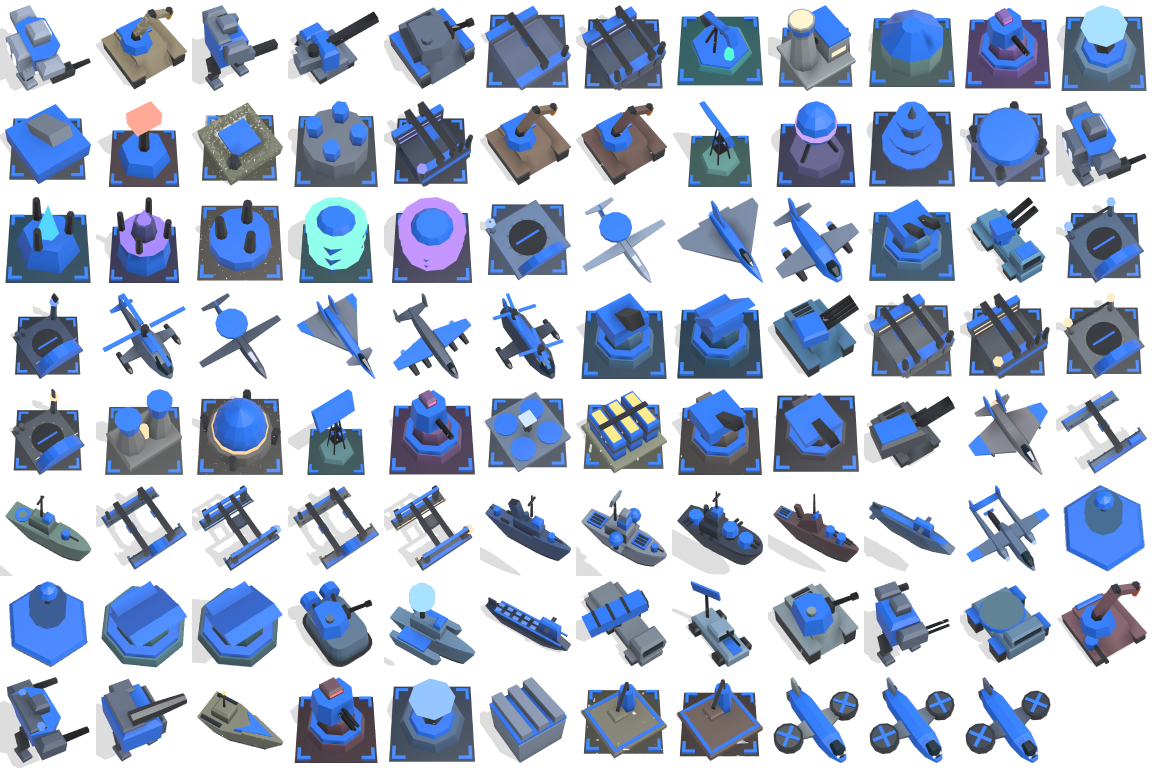
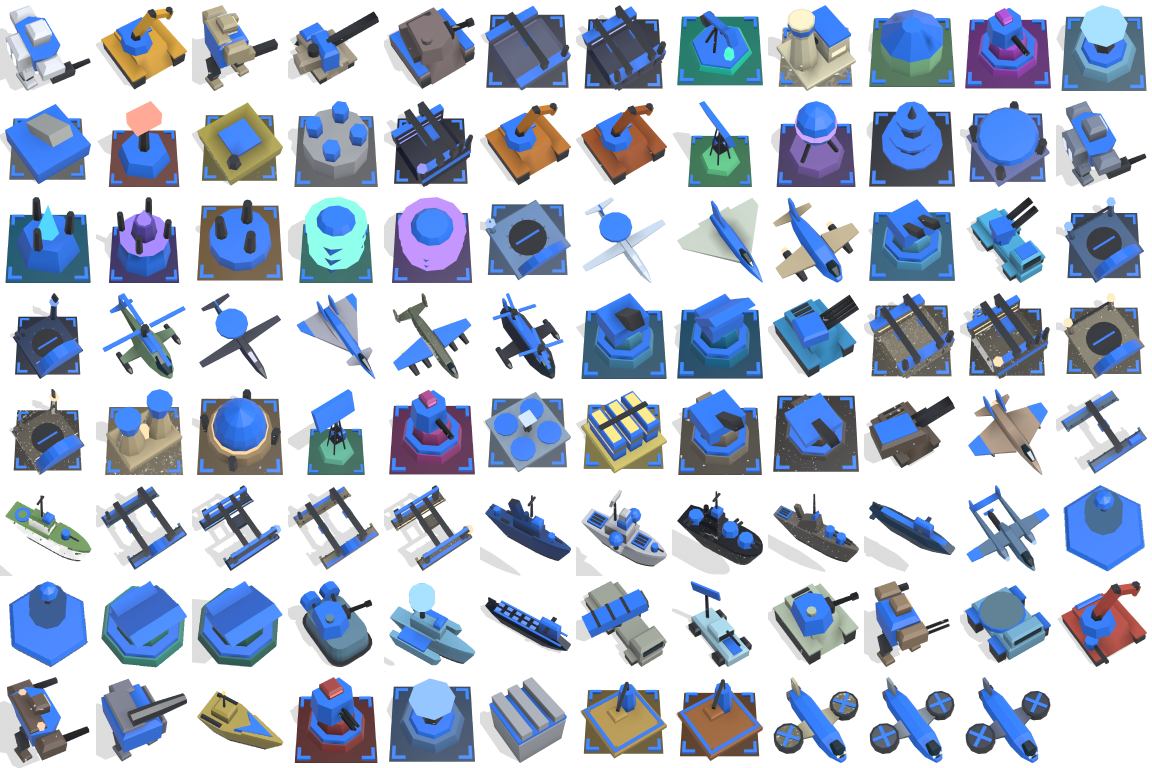
Give unit families their own hull colors, keeping team color on trim
Hulls take most of their family tint and little of the team color, so tanks,
walkers, artillery, aircraft and ships read as different families at a glance.
The team color stays on turrets, panels, and trim. Nine units that had no tint
get earth tones, and the rust-colored artillery and battlecruiser hulls are
sand and stone so Red's trim stands out. Portraits regenerated. The portrait
sheet example takes --team and --out to compare looks without touching assets.

diff --git a/src/render/instances.rs b/src/render/instances.rs
@@ -72,8 +72,8 @@ const APRON_HEIGHT: f32 = 2.4;
 /// Bare armor, before it takes on a little of the team's and the blueprint's color.
 const ARMOR: [f32; 3] = [0.50, 0.52, 0.55];
 /// How much of the blueprint's tint, then the team's color, the armor takes on.
-const ARMOR_TINT: f32 = 0.4;
-const ARMOR_TEAM: f32 = 0.15;
+const ARMOR_TINT: f32 = 0.85;
+const ARMOR_TEAM: f32 = 0.06;
 /// How far glowing parts are lifted towards white.
 const GLOW_WHITEN: f32 = 0.25;
 /// How far a unit must have moved in a tick, in raw squared units, to count as heading somewhere.
@@ -365,13 +365,13 @@ pub fn unit_look(key: &str) -> UnitLook {
         "t3_engineer" => UnitLook { base: Some(Shape::EngineerHull), ..look(Shape::Engineer, Some([0.98, 0.44, 0.10]), 1.0) },
         "land_factory_t3" => look(Shape::FactoryT3, Some([0.10, 0.10, 0.20]), 0.85),
         "t1_engineer" => UnitLook { base: Some(Shape::EngineerHull), ..look(Shape::Engineer, Some([1.00, 0.70, 0.12]), 1.0) },
-        "t1_light_walker" => UnitLook { base: Some(Shape::BotLegs), ..look(Shape::Bot, None, 1.0) },
+        "t1_light_walker" => UnitLook { base: Some(Shape::BotLegs), ..look(Shape::Bot, Some([0.78, 0.70, 0.50]), 1.0) },
         "t1_land_scout" => UnitLook { length: 14.0, ..look(Shape::LandScout, Some([0.75, 0.95, 1.00]), 1.0) },
         "t1_medium_tank" => UnitLook { base: Some(Shape::TankHull), ..look(Shape::Tank, Some([0.80, 0.85, 0.70]), 1.0) },
-        "t2_grenadier_walker" => UnitLook { base: Some(Shape::BotLegs), ..look(Shape::GrenadierWalker, None, 1.0) },
+        "t2_grenadier_walker" => UnitLook { base: Some(Shape::BotLegs), ..look(Shape::GrenadierWalker, Some([0.72, 0.58, 0.40]), 1.0) },
         "t2_mobile_shield" => UnitLook { base: Some(Shape::ShieldCarrier), length: 15.0, ..look(Shape::ShieldEmitter, Some([0.55, 0.85, 1.00]), 1.0) },
         "t2_combat_engineer" => UnitLook { base: Some(Shape::CombatEngineerHull), length: 19.0, ..look(Shape::Engineer, Some([0.95, 0.32, 0.22]), 1.0) },
-        "t3_heavy_walker" => UnitLook { base: Some(Shape::BotLegs), ..look(Shape::HeavyWalker, None, 1.0) },
+        "t3_heavy_walker" => UnitLook { base: Some(Shape::BotLegs), ..look(Shape::HeavyWalker, Some([0.58, 0.46, 0.36]), 1.0) },
         "t3_siege_walker" => UnitLook { base: Some(Shape::BotLegs), ..look(Shape::SiegeWalker, Some([0.70, 0.70, 0.75]), 1.0) },
         "t2_torpedo_boat" => UnitLook { length: 24.0, ..look(Shape::TorpedoBoat, Some([0.90, 0.78, 0.30]), 0.5) },
         "t3_heavy_point_defense" => UnitLook { base: Some(Shape::PointDefenseBase), ..look(Shape::HeavyPointDefense, Some([0.95, 0.35, 0.30]), 1.0) },
@@ -382,8 +382,8 @@ pub fn unit_look(key: &str) -> UnitLook {
         "t2_transport" => look(Shape::Transport, Some([0.70, 0.75, 0.80]), 1.0),
         "t3_heavy_transport" => look(Shape::Transport, Some([0.55, 0.60, 0.75]), 1.0),
         "field_workshop_t3" => look(Shape::FieldWorkshop, Some([0.95, 0.55, 0.20]), 0.95),
-        "t1_light_artillery" => UnitLook { base: Some(Shape::ArtilleryHull), length: 22.0, ..look(Shape::Artillery, None, 1.0) },
-        "t2_heavy_tank" => UnitLook { base: Some(Shape::HeavyTankHull), length: 24.0, ..look(Shape::HeavyTank, None, 1.0) },
+        "t1_light_artillery" => UnitLook { base: Some(Shape::ArtilleryHull), length: 22.0, ..look(Shape::Artillery, Some([0.74, 0.66, 0.52]), 1.0) },
+        "t2_heavy_tank" => UnitLook { base: Some(Shape::HeavyTankHull), length: 24.0, ..look(Shape::HeavyTank, Some([0.62, 0.52, 0.48]), 1.0) },
         "t2_assault_hovercraft" => UnitLook { base: Some(Shape::HoverHull), ..look(Shape::Tank, Some([0.45, 0.65, 0.75]), 1.0) },
         "land_factory_t1" => look(Shape::Factory, Some([0.35, 0.35, 0.45]), 0.55),
         "land_factory_t2" => look(Shape::FactoryT2, Some([0.20, 0.20, 0.30]), 0.7),
@@ -393,8 +393,8 @@ pub fn unit_look(key: &str) -> UnitLook {
         "power_generator" => look(Shape::Generator, Some([1.00, 0.95, 0.75]), 1.2),
         "mass_storage" => look(Shape::Storage, Some([0.60, 0.90, 0.60]), 0.65),
         "energy_storage" => look(Shape::EnergyStorage, Some([1.00, 0.90, 0.40]), 0.65),
-        "t2_artillery" => UnitLook { base: Some(Shape::PointDefenseBase), ..look(Shape::ArtilleryGun, Some([0.80, 0.55, 0.30]), 1.0) },
-        "t3_artillery" => UnitLook { base: Some(Shape::PointDefenseBase), ..look(Shape::ArtilleryGun, Some([0.50, 0.30, 0.20]), 0.6) },
+        "t2_artillery" => UnitLook { base: Some(Shape::PointDefenseBase), ..look(Shape::ArtilleryGun, Some([0.70, 0.62, 0.50]), 1.0) },
+        "t3_artillery" => UnitLook { base: Some(Shape::PointDefenseBase), ..look(Shape::ArtilleryGun, Some([0.46, 0.40, 0.34]), 0.6) },
         "t3_mobile_artillery" => UnitLook { base: Some(Shape::CasemateHull), length: 30.0, ..look(Shape::HeavyArtillery, Some([0.55, 0.45, 0.35]), 1.0) },
         "radar" => look(Shape::Radar, Some([0.40, 0.90, 0.55]), 1.3),
         "deep_scan_array" => look(Shape::DeepScan, Some([0.75, 0.55, 1.00]), 1.2),
@@ -424,7 +424,7 @@ pub fn unit_look(key: &str) -> UnitLook {
             turrets: [turret(0, [0.0, 0.304, -0.16], false), turret(1, [0.0, 0.109, -0.11], false), turret(2, [0.0, -0.337, -0.2], true)],
             ..look(Shape::Battleship, Some([0.04, 0.04, 0.07]), 0.6)
         },
-        "t3_battlecruiser" => UnitLook { length: 86.0, ..look(Shape::Battlecruiser, Some([0.78, 0.30, 0.12]), 0.55) },
+        "t3_battlecruiser" => UnitLook { length: 86.0, ..look(Shape::Battlecruiser, Some([0.62, 0.56, 0.48]), 0.55) },
         "naval_factory_t2" => look(Shape::NavalFactoryT2, Some([0.25, 0.35, 0.45]), 0.6),
         "naval_factory_t3" => look(Shape::NavalFactoryT3, Some([0.15, 0.22, 0.32]), 0.7),
         "naval_factory_t2_support" => look(Shape::NavalFactoryT2, Some([0.64, 0.58, 0.44]), 0.55),
@@ -439,19 +439,19 @@ pub fn unit_look(key: &str) -> UnitLook {
         "t2_point_defense" => UnitLook { base: Some(Shape::PointDefenseBase), ..look(Shape::PointDefense, Some([0.85, 0.30, 0.65]), 1.0) },
         "air_factory_t2" => look(Shape::AirFactoryT2, Some([0.30, 0.45, 0.65]), 0.65),
         "air_factory_t3" => look(Shape::AirFactoryT3, Some([0.15, 0.25, 0.45]), 0.8),
-        "t2_gunship" => look(Shape::Gunship, None, 0.6),
+        "t2_gunship" => look(Shape::Gunship, Some([0.52, 0.66, 0.46]), 0.6),
         "t3_heavy_gunship" => look(Shape::HeavyGunship, Some([0.20, 0.20, 0.25]), 0.6),
         "t3_spy_plane" => look(Shape::Scout, Some([0.30, 0.30, 0.35]), 0.5),
         "t3_air_superiority" => UnitLook { length: 28.0, ..look(Shape::AirSuperiority, Some([0.95, 0.95, 1.00]), 0.5) },
         // The largest aircraft with wings, longer and wider than even the heavy transport.
-        "t3_strategic_bomber" => UnitLook { length: 44.0, ..look(Shape::StrategicBomber, None, 0.5) },
+        "t3_strategic_bomber" => UnitLook { length: 44.0, ..look(Shape::StrategicBomber, Some([0.50, 0.52, 0.38]), 0.5) },
         "t2_fighter_bomber" => look(Shape::FighterBomber, Some([0.85, 0.70, 0.55]), 0.55),
         "t2_flak" => UnitLook { base: Some(Shape::PointDefenseBase), ..look(Shape::FlakGun, Some([0.35, 0.75, 0.95]), 1.0) },
         "t2_mobile_flak" => UnitLook { base: Some(Shape::TankHull), length: 21.0, ..look(Shape::FlakTurret, Some([0.22, 0.70, 0.98]), 1.0) },
         "t3_sam" => UnitLook { base: Some(Shape::PointDefenseBase), ..look(Shape::SamLauncher, Some([0.15, 0.72, 1.00]), 1.1) },
         "t1_air_scout" => look(Shape::Scout, Some([0.85, 0.90, 0.95]), 0.5),
-        "t1_interceptor" => look(Shape::Aircraft, None, 0.5),
-        "t1_bomber" => look(Shape::Bomber, None, 0.6),
+        "t1_interceptor" => look(Shape::Aircraft, Some([0.86, 0.88, 0.78]), 0.5),
+        "t1_bomber" => look(Shape::Bomber, Some([0.82, 0.72, 0.52]), 0.6),
         "t1_aa_turret" => UnitLook { base: Some(Shape::PointDefenseBase), ..look(Shape::AntiAirGun, Some([0.35, 0.75, 0.95]), 0.9) },
         "t1_mobile_aa" => UnitLook { base: Some(Shape::WheeledHull), length: 19.0, ..look(Shape::TruckAntiAir, Some([0.30, 0.78, 0.98]), 1.0) },
         "t1_point_defense" => UnitLook { base: Some(Shape::PointDefenseBase), ..look(Shape::PointDefense, Some([0.75, 0.25, 0.85]), 0.9) },

diff --git a/examples/portrait_sheet.rs b/examples/portrait_sheet.rs
@@ -1,7 +1,10 @@
 //! Renders a portrait of every unit and structure, for the interface's buttons, and packs them
 //! into `assets/portraits.png`, with their keys, tile by tile, in `assets/portraits.txt`.
 //!
-//! `cargo run --release --example portrait_sheet [-- --review <folder>]`
+//! `cargo run --release --example portrait_sheet [-- --review <folder>] [--team red|blue] [--out <sheet.png>]`
+//!
+//! With `--out`, the sheet is written there and the game's own portraits are left alone, which
+//! is how to compare looks, or see the other team's colors, without changing the game.
 //!
 //! Run it again after changing a unit's model. Each unit is drawn alone, close up, from the
 //! interface's usual angle, then the same view is drawn without it: what differs is the unit,
@@ -157,6 +160,9 @@ fn portrait(with: &[u8], without: &[u8], width: usize, height: usize) -> Vec<u8>
 }
 
 fn main() {
+    let arguments: Vec<String> = std::env::args().skip(1).collect();
+    let option = |name: &str| arguments.iter().position(|argument| argument == name).and_then(|at| arguments.get(at + 1)).cloned();
+    let team = if option("--team").as_deref() == Some("red") { Team::Red } else { Team::Blue };
     let mut world = world();
     let blueprints = Arc::clone(&world.blueprints);
     let drawn: Vec<_> = blueprints.iter().filter(|unit| unit.class != UnitClass::Ammo).collect();
@@ -169,7 +175,7 @@ fn main() {
         if unit.is_structure() {
             let size = u32::from(unit.footprint);
             if unit.on_water {
-                world.spawn_finished_structure(unit.id, Team::Blue, sea_cell_x, 100);
+                world.spawn_finished_structure(unit.id, team, sea_cell_x, 100);
                 sea_cell_x += size + 10;
             } else {
                 if cell_x + size > 300 {
@@ -183,16 +189,16 @@ fn main() {
                 if unit.requires_vent {
                     world.vents.push((cell_x + size / 2, cell_y + size / 2));
                 }
-                if world.spawn_finished_structure(unit.id, Team::Blue, cell_x, cell_y).is_none() {
+                if world.spawn_finished_structure(unit.id, team, cell_x, cell_y).is_none() {
                     eprintln!("{} could not be built", unit.key);
                 }
                 cell_x += size + 10;
             }
         } else if matches!(unit.movement, MoveClass::Naval | MoveClass::Submarine) {
-            world.spawn_mobile(unit.id, Team::Blue, Vec2Fp::new(fp_int(sea_x), fp_int(1_900)));
+            world.spawn_mobile(unit.id, team, Vec2Fp::new(fp_int(sea_x), fp_int(1_900)));
             sea_x += 260;
         } else {
-            world.spawn_mobile(unit.id, Team::Blue, Vec2Fp::new(fp_int(land_x), fp_int(land_y)));
+            world.spawn_mobile(unit.id, team, Vec2Fp::new(fp_int(land_x), fp_int(land_y)));
             land_x += 260;
             if land_x > MAP - 300 {
                 land_x = 300;
@@ -280,14 +286,17 @@ fn main() {
         }
     }
     let assets = Path::new(env!("CARGO_MANIFEST_DIR")).join("assets");
-    let file = std::fs::File::create(assets.join("portraits.png")).expect("sheet can be written");
+    let sheet_path = option("--out").map_or_else(|| assets.join("portraits.png"), std::path::PathBuf::from);
+    let file = std::fs::File::create(&sheet_path).expect("sheet can be written");
     let mut encoder = png::Encoder::new(std::io::BufWriter::new(file), sheet_width as u32, sheet_height as u32);
     encoder.set_color(png::ColorType::Rgba);
     encoder.set_depth(png::BitDepth::Eight);
     encoder.set_compression(png::Compression::Best);
     encoder.write_header().expect("header writes").write_image_data(&sheet).expect("sheet writes");
     let index = format!("{TILE} {COLUMNS}\n{}\n", keys.join("\n"));
-    std::fs::write(assets.join("portraits.txt"), index).expect("index writes");
+    if option("--out").is_none() {
+        std::fs::write(assets.join("portraits.txt"), index).expect("index writes");
+    }
     println!("{} portraits", keys.len());
     let mut args = std::env::args().skip(1);
     if args.next().as_deref() == Some("--review") {
